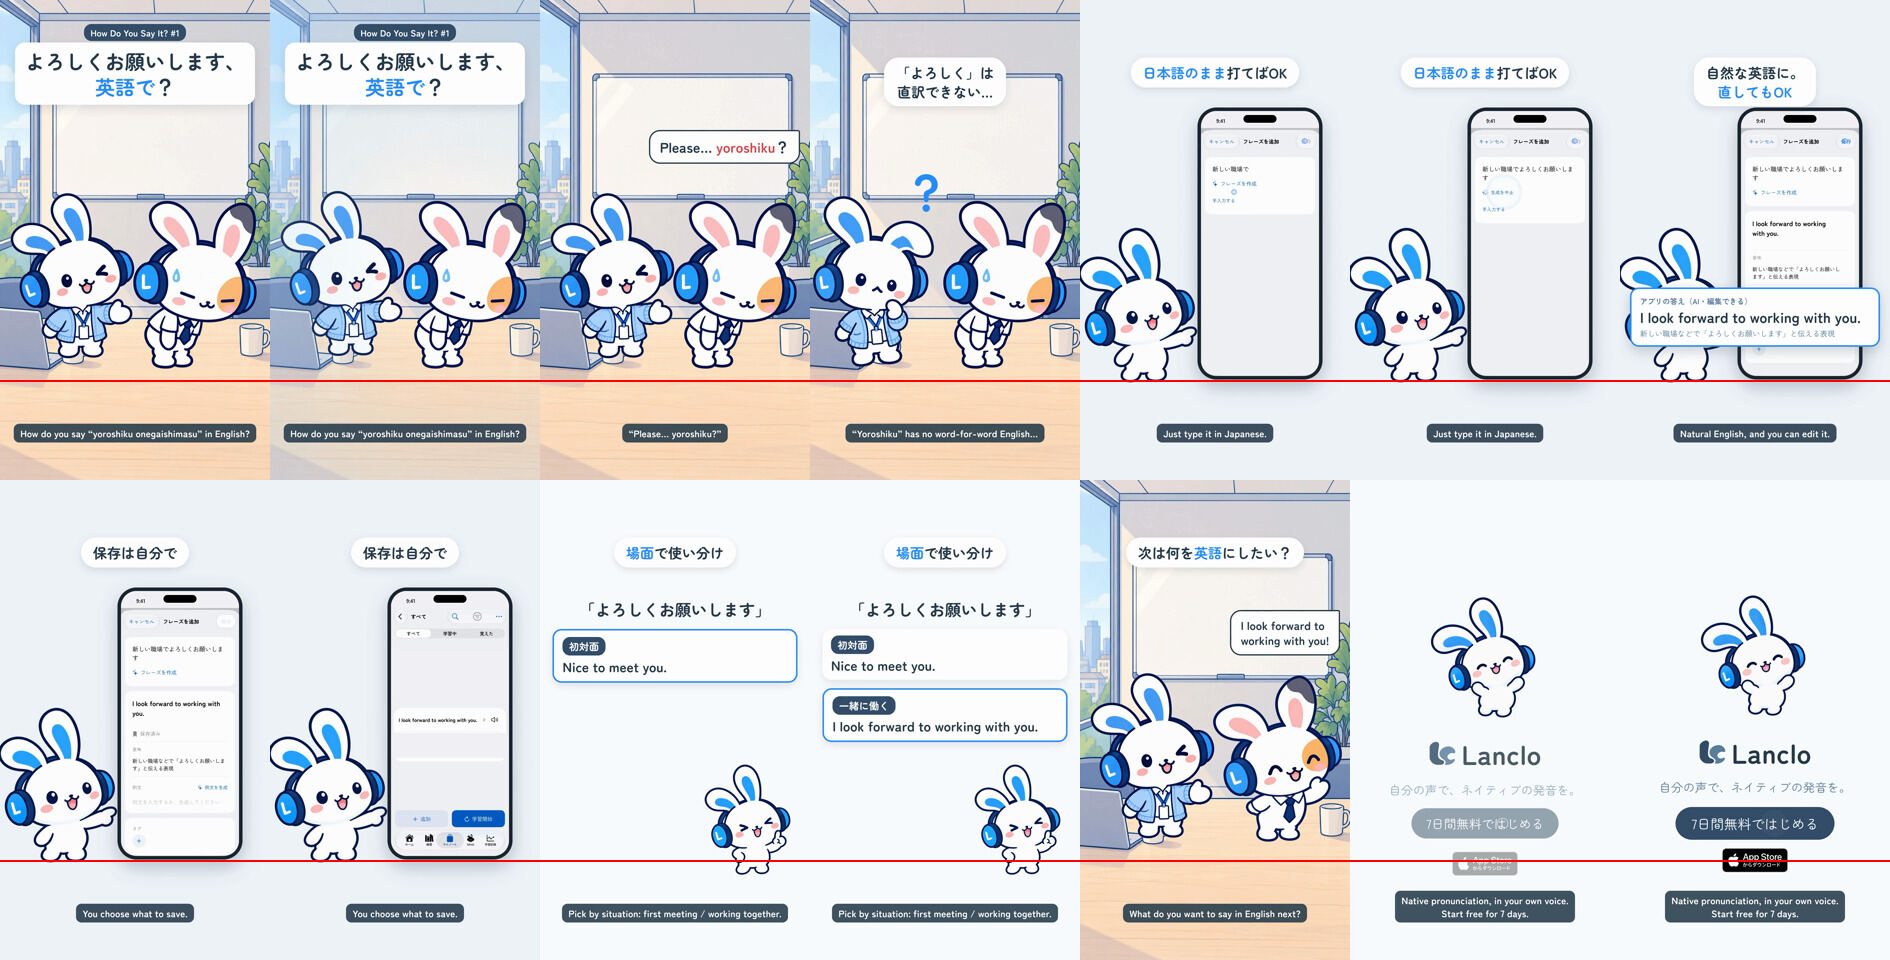
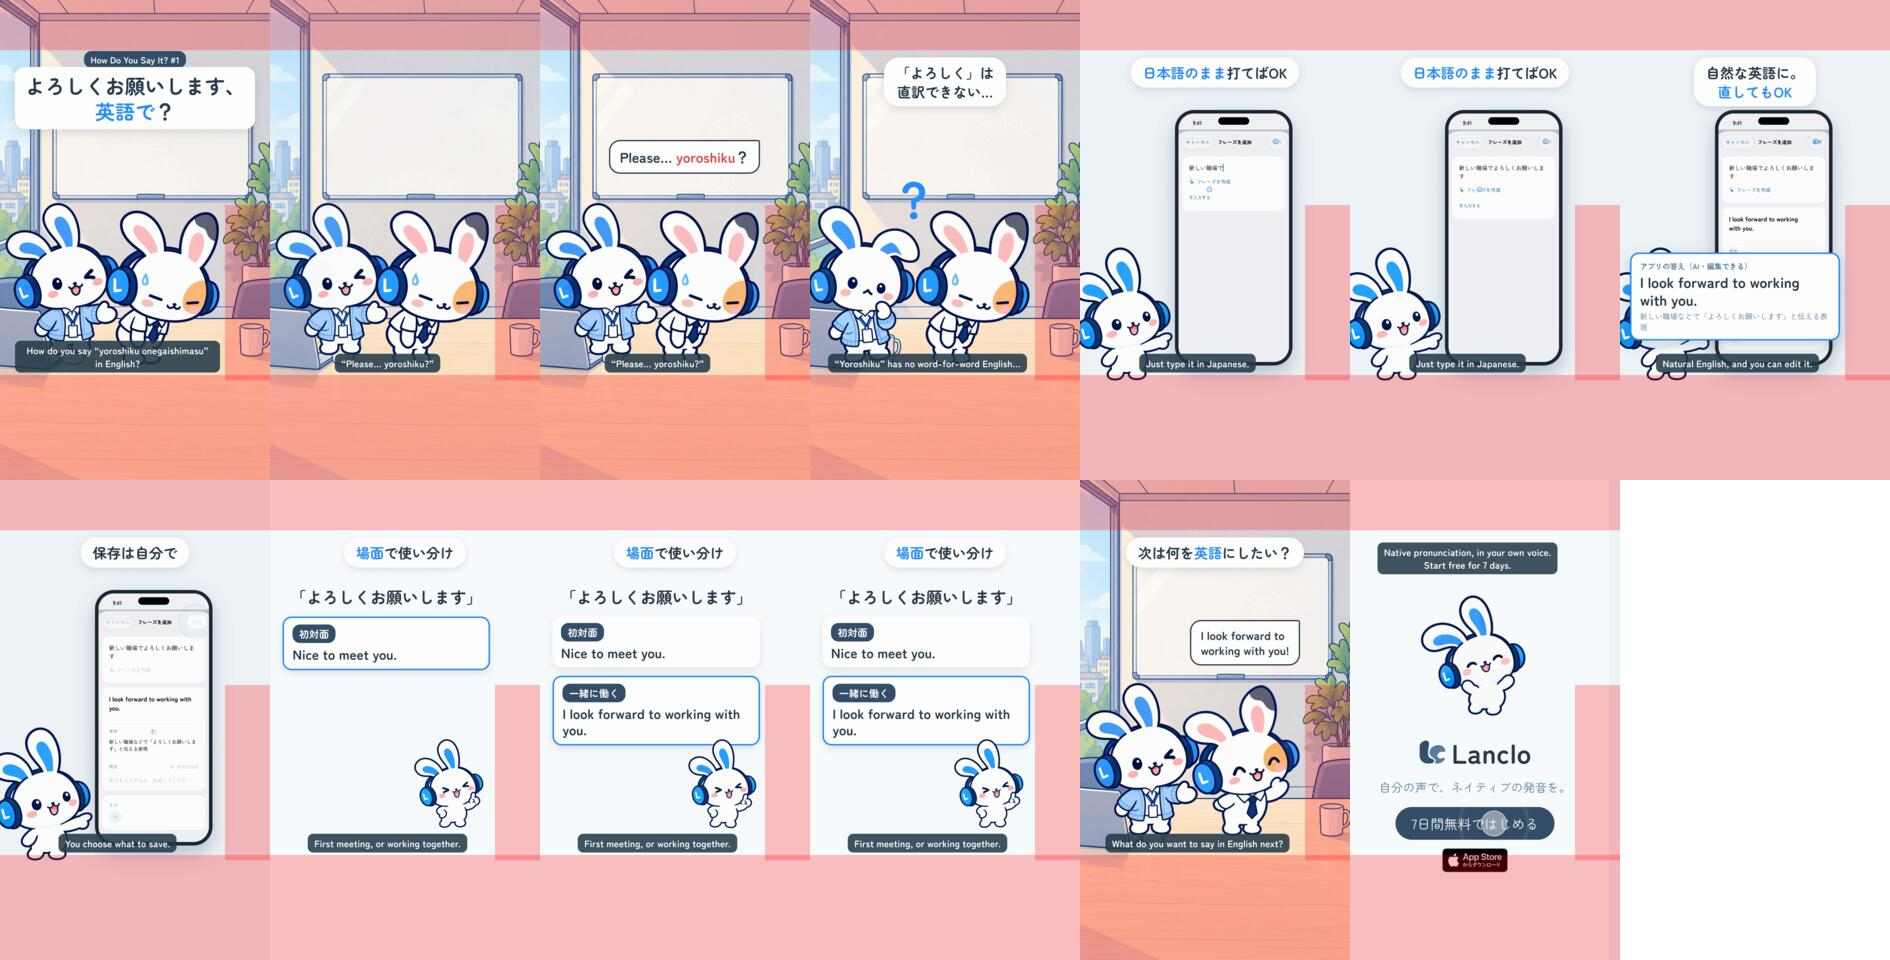
063: -14 LUFS and platform safe zones (v2 draft)
Post-gain and limiter after Mix.write (-14.1 LUFS, -1.9 dBTP); bubbles,
characters, phone, labels and the end card moved out of the right action
rail, English subtitles above y 1500 within x 60-880, hook from y 200.

diff --git a/films/mimi-say-yoroshiku/source/hf/index.html b/films/mimi-say-yoroshiku/source/hf/index.html
@@ -13,24 +13,24 @@
       .pose { position: absolute; height: auto; transform-origin: 50% 100%; }
       .plate { position: absolute; inset: 0; width: 1080px; height: 1920px; object-fit: cover; }
       /* Hook title: on screen from the first frame */
-      #hook { position: absolute; left: 40px; right: 40px; top: 170px; text-align: center; }
+      #hook { position: absolute; left: 40px; right: 40px; top: 268px; text-align: center; }
       #hook span { display: inline-block; white-space: nowrap; background: #ffffff; color: #273b4b; font-size: 80px; font-weight: 700; line-height: 1.28;
                    padding: 22px 40px; border-radius: 40px; box-shadow: 0 14px 40px rgba(39, 59, 75, 0.14); }
       #hook em { font-style: normal; color: #2a8dff; }
-      #series { position: absolute; left: 0; right: 0; top: 96px; text-align: center; }
+      #series { position: absolute; left: 0; right: 0; top: 204px; text-align: center; }
       #series span { display: inline-block; background: #344f69; color: #ffffff; font-size: 36px; font-weight: 700; padding: 8px 26px; border-radius: 30px; }
       /* Scene 1: the office. Mimi (the colleague) left, the Friend right, feet on the floor line */
       #s-office, #s-payoff { position: absolute; inset: 0; }
       #ice { position: absolute; inset: 0; background: radial-gradient(circle at 72% 58%, rgba(170, 215, 255, 0.0) 20%, rgba(170, 215, 255, 0.45) 100%); }
-      #o-hello, #o-puzzled { left: 30px; top: 760px; width: 520px; }
+      #o-hello, #o-puzzled { left: 10px; top: 800px; width: 480px; }
       #o-puzzled { opacity: 0; }
-      #o-bow { left: 520px; top: 790px; width: 520px; }
-      #qm { position: absolute; left: 380px; top: 640px; font-size: 170px; font-weight: 700; color: #2a8dff; opacity: 0; }
-      #b-line { top: 520px; right: 40px; font-size: 56px; }
+      #o-bow { left: 410px; top: 830px; width: 480px; }
+      #qm { position: absolute; left: 330px; top: 670px; font-size: 170px; font-weight: 700; color: #2a8dff; opacity: 0; }
+      #b-line { top: 560px; right: 200px; font-size: 56px; }
       #b-line b { color: #e5484d; }
       /* Scene 2: the real app (phone) with Mimi pointing */
       #s-app { position: absolute; inset: 0; background: #eef3f9; }
-      #device { position: absolute; left: 470px; top: 430px; width: 500px; height: 1088px; border-radius: 76px; background: #1d2733; padding: 14px;
+      #device { position: absolute; left: 380px; top: 440px; width: 470px; height: 1022px; border-radius: 76px; background: #1d2733; padding: 14px;
                 box-shadow: 0 30px 70px rgba(39, 59, 75, 0.28); transform-origin: 50% 50%; }
       #screen { position: relative; width: 100%; height: 100%; border-radius: 62px; overflow: hidden; background: #f2f2f7; }
       #screen video { position: absolute; inset: 0; width: 100%; height: 100%; object-fit: cover; }
@@ -39,29 +39,31 @@
       .bar i { position: absolute; left: 36%; top: 24%; width: 28%; height: 46%; border-radius: 20px; background: #000; }
       .mask { position: absolute; background: #ffffff; }
       .tap { position: absolute; width: 70px; height: 70px; margin: -35px 0 0 -35px; border-radius: 50%; border: 6px solid #2a8dff; background: rgba(42, 141, 255, 0.18); opacity: 0; }
-      #a-point { left: -20px; top: 900px; width: 500px; }
-      #result { position: absolute; left: 40px; right: 40px; top: 1150px; background: #ffffff; border-radius: 36px; padding: 26px 34px;
+      #a-point { left: -50px; top: 980px; width: 430px; }
+      #result { position: absolute; left: 40px; right: 200px; top: 1010px; background: #ffffff; border-radius: 36px; padding: 26px 34px;
                 box-shadow: 0 18px 50px rgba(39, 59, 75, 0.22); border: 6px solid #2a8dff; }
       #result small { display: block; font-size: 30px; font-weight: 700; color: #5b7f9f; }
       #result b { display: block; font-size: 58px; line-height: 1.22; color: #273b4b; margin-top: 6px; }
       #result i { display: block; font-style: normal; font-size: 30px; color: #5b7f9f; margin-top: 8px; }
       /* Scene 3: Mimi's situation card */
       #s-card { position: absolute; inset: 0; background: #fbfcfd; }
-      #card { position: absolute; left: 50px; right: 50px; top: 470px; display: flex; flex-direction: column; gap: 34px; }
+      #card { position: absolute; left: 50px; right: 200px; top: 420px; display: flex; flex-direction: column; gap: 34px; }
       #card .jp { text-align: center; font-size: 64px; font-weight: 700; color: #273b4b; }
       .row { background: #ffffff; border-radius: 36px; box-shadow: 0 12px 34px rgba(39, 59, 75, 0.12); padding: 26px 34px; display: flex; flex-direction: column; gap: 12px; }
       .row .when { align-self: flex-start; font-size: 40px; font-weight: 700; color: #ffffff; background: #344f69; padding: 8px 26px; border-radius: 30px; }
       .row .en { font-size: 54px; font-weight: 700; color: #273b4b; line-height: 1.2; }
       .row.on { border: 6px solid #2a8dff; }
-      #c-mimi { left: 650px; top: 1130px; width: 360px; }
+      #c-mimi { left: 570px; top: 1030px; width: 290px; }
       /* Scene 4: payoff in the office */
-      #p-hello { left: 30px; top: 760px; width: 520px; }
-      #p-smile { left: 520px; top: 770px; width: 540px; }
-      #b-pay { top: 520px; right: 40px; font-size: 46px; }
+      #p-hello { left: 10px; top: 800px; width: 480px; }
+      #p-smile { left: 400px; top: 810px; width: 490px; }
+      #b-pay { top: 560px; right: 200px; font-size: 46px; }
+      /* End card shifted 40 px left so its tagline stays out of the platform action rail (x > 900) */
+      #end { left: -40px; right: 40px; }
       /* English subtitles: one line under everything, bottom safe zone. <body class="no-subs"> renders the Japanese-only cut. */
       body.no-subs .sub { display: none; }
-      .sub { position: absolute; left: 30px; right: 30px; bottom: 150px; display: flex; justify-content: center; }
-      .sub span { display: block; max-width: 1000px; background: rgba(39, 59, 75, 0.88); color: #ffffff; font-size: 38px; line-height: 1.35;
+      .sub { position: absolute; left: 60px; right: 200px; bottom: 430px; display: flex; justify-content: center; }
+      .sub span { display: block; max-width: 820px; background: rgba(39, 59, 75, 0.88); color: #ffffff; font-size: 38px; line-height: 1.35;
                   font-weight: 700; text-align: center; padding: 12px 26px; border-radius: 22px; }
     </style>
   </head>
@@ -135,9 +137,9 @@
       <div class="sub clip" data-start="5.0" data-duration="3.45" data-track-index="24"><span>Just type it in Japanese.</span></div>
       <div class="sub clip" data-start="8.45" data-duration="1.9" data-track-index="24"><span>Natural English, and you can edit it.</span></div>
       <div class="sub clip" data-start="10.35" data-duration="1.0" data-track-index="24"><span>You choose what to save.</span></div>
-      <div class="sub clip" data-start="11.35" data-duration="4.2" data-track-index="24"><span>Pick by situation: first meeting / working together.</span></div>
+      <div class="sub clip" data-start="11.35" data-duration="4.2" data-track-index="24"><span>First meeting, or working together.</span></div>
       <div class="sub clip" data-start="15.55" data-duration="1.8" data-track-index="24"><span>What do you want to say in English next?</span></div>
-      <div class="sub clip" data-start="17.35" data-duration="1.25" data-track-index="24"><span>Native pronunciation, in your own voice.<br />Start free for 7 days.</span></div>
+      <div class="sub clip" style="top: 250px; bottom: auto" data-start="17.35" data-duration="1.25" data-track-index="24"><span>Native pronunciation, in your own voice.<br />Start free for 7 days.</span></div>
 
       <audio id="mix" src="assets/mix.wav" data-start="0" data-duration="18.6" data-track-index="16" data-volume="1"></audio>
     </div>

diff --git a/films/mimi-say-yoroshiku/source/scripts/mix.py b/films/mimi-say-yoroshiku/source/scripts/mix.py
@@ -12,7 +12,7 @@ from pathlib import Path
 
 SRC = Path(__file__).resolve().parent.parent
 sys.path.insert(0, str(SRC.parents[2] / 'kits/mimi-short/scripts'))
-from sfx import Mix, boing, ding, freeze, pochi, pop_seq, tap, whoosh  # noqa: E402
+from sfx import SR, Mix, boing, ding, freeze, pochi, pop_seq, tap, whoosh  # noqa: E402
 
 # Cue sheet (seconds); hf/index.html uses the same times.
 HOOK = 0.0           # frame 1: the hook line, the Friend frozen mid-bow
@@ -56,4 +56,25 @@ m.sfx(boing(True), PAYOFF + 0.1)
 m.bed(0.0, END)
 m.end_chord(END)
 m.sfx(pochi(), CTA_TAP)
-m.write(SRC / 'hf/assets/mix.wav')
+out = m.write(SRC / 'hf/assets/mix.wav')
+# loudnorm's single pass stops short of -14 on a short, voice-sparse film (true peak bound): measure, add the missing gain
+# in front of a limiter at -2.5 dBFS (true peak stays under -1.5 dBTP), and measure again (as in mimi-katakana-mcdonalds). The balance is unchanged.
+import json as _j, re, shutil, subprocess  # noqa: E402
+
+
+def lufs(f):
+    err = subprocess.run(['ffmpeg', '-hide_banner', '-nostats', '-i', str(f), '-af', 'loudnorm=print_format=json', '-f', 'null', '-'],
+                         capture_output=True, text=True).stderr
+    d = _j.loads(re.search(r'\{[^{}]*\}', err[err.rfind('Parsed_loudnorm'):]).group(0))
+    return float(d['input_i']), float(d['input_tp'])
+
+
+for _ in range(3):
+    i, tp = lufs(out)
+    if abs(i + 14) < 0.3:
+        break
+    tmp = out.with_suffix('.tmp.wav')
+    subprocess.run(['ffmpeg', '-v', 'error', '-y', '-i', str(out), '-af',
+                    f'volume={-14 - i + 0.1:.2f}dB,alimiter=limit=0.75:level=false:attack=1:release=60', '-ar', str(SR), str(tmp)], check=True)
+    shutil.move(tmp, out)
+print(out, 'I=%.1f LUFS TP=%.1f dBTP' % lufs(out))

diff --git a/films/mimi-say-yoroshiku/PROCESS.md b/films/mimi-say-yoroshiku/PROCESS.md
@@ -37,6 +37,13 @@ Notion Content Calendar ID 63（Drive「063. How Do You Say It 1 - Yoroshiku One
 - 字幕「保存は自分で」は「自動では保存されない」から。「直してもOK」は結果が編集できる入力欄であることから。
 - 音：声が主、BGM はキットのテーマ、SFX は小さく、明るいベルなし。
 
+## コマンダーの確認（2026-10-23、v2）
+
+- 内容は承認。答えは短い方 "I look forward to working with you." のまま。
+- 音量：−15.7 → −14.1 LUFS、トゥルーピーク −1.9 dBTP（mimi-katakana-mcdonalds と同じ後段ゲイン＋リミッター。リミッターは −2.5 dBFS にしてトゥルーピークを −1.5 dBTP 未満に。バランスは同じ）。
+- プラットフォームのセーフエリア（オーナー「セーフティエリアって大丈夫？被ってもいいけどすべてが隠れないようにね。」）：右のアクション列（x>900、y 820–1520）から吹き出し・友だち・電話・結果ラベル・カード・小さいMimi・エンドカードの文字を左へ。英語字幕は x 60–880、下端 y 1500 以内（エンドカードだけ上に）。フックの1行目は y 200 以降（シリーズ名のラベルも 200 以降）。区域を重ねたシートで確認。App Store バッジはキットのエンドカードのまま下の区域に一部かかる。
+- 旧版は Drive の old/ に `_v1` で移した。
+
 ## 学んだこと
 
 - ffmpeg で倍速の区間を切るとき、`-t` を `-i` の後ろに置くと出力の長さになり、倍速分だけ後ろがずれる。入力の長さは `-ss … -t … -i` で指定する。
